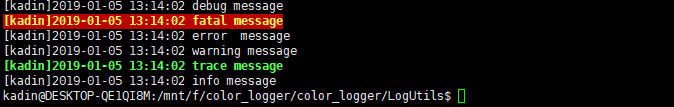
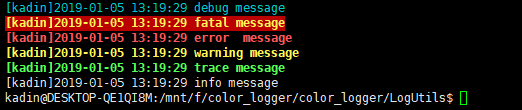
fix color bug
fix color bug

diff --git a/LogUtils/logger.cpp b/LogUtils/logger.cpp
@@ -131,11 +131,11 @@ namespace kadin {
 
 		switch (level)
 		{
-		case LEVEL_DEBUG: color = "\033[3m["; break;
+		case LEVEL_DEBUG: color = "\033[36m["; break;
 		case LEVEL_INFO: color = "\033[0m["; break;
 		case LEVEL_TRACE: color = "\033[1;32m["; break;
-		case LEVEL_WARN: color = "\033[1:33m["; break;
-		case LEVEL_ERROR: color = "\033[1:31m["; break;
+		case LEVEL_WARN: color = "\033[1;33m["; break;
+		case LEVEL_ERROR: color = "\033[1;31m["; break;
 		case LEVEL_FATAL: color = "\033[1;33;41m["; break;
 		default:break;
 		}
